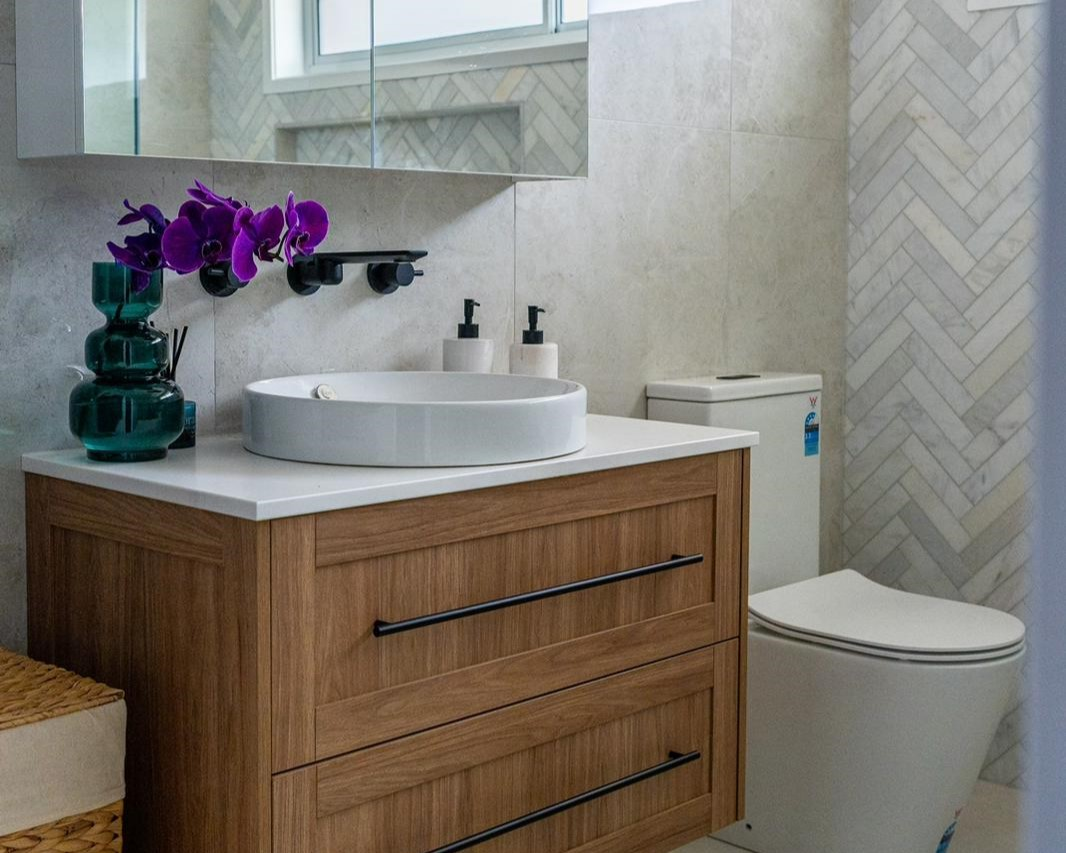
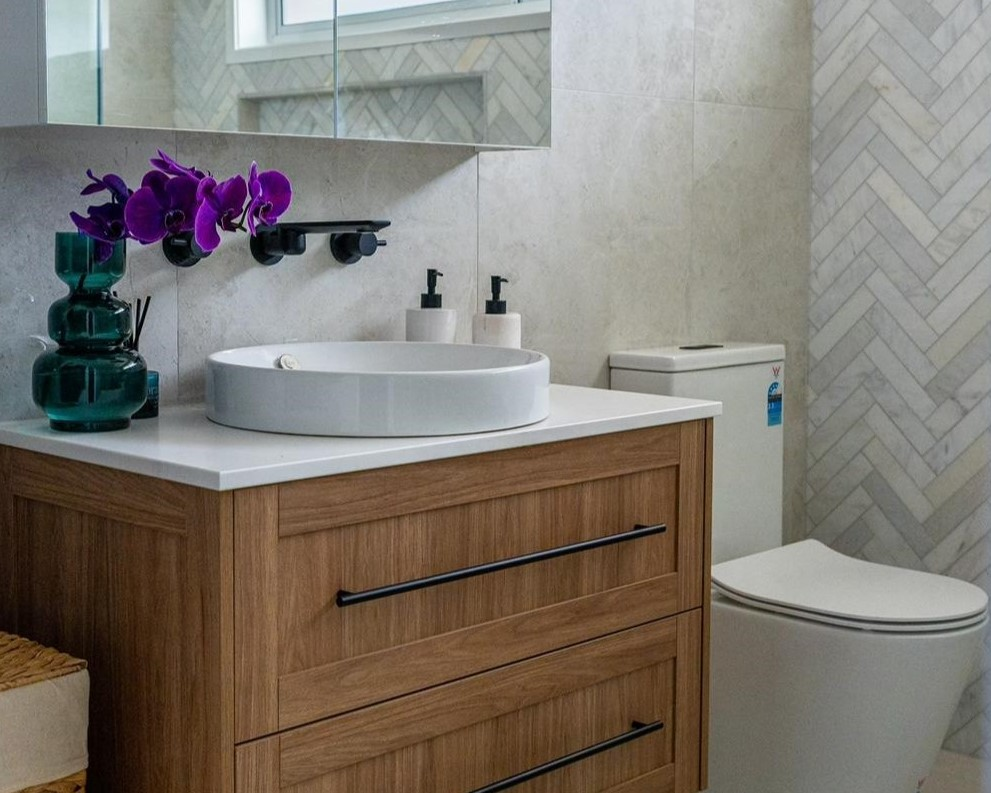
msg

diff --git a/index.html b/index.html
@@ -156,7 +156,7 @@ We service Narellan and all the surrounding areas, just call us to find out more
                             <div class='col-md-4 col-sm-6'>
                                 <div class='features-tile'>
                                     <div class='features-img'>
-                                        <img src='img/4.jpeg' alt='' style='height:265px;' />
+                                        <img src='img/1.jpeg' alt='' style='height:265px;' />
                                     </div>
                                     <div class='features-content'>
                                         <div class='page-header'>
